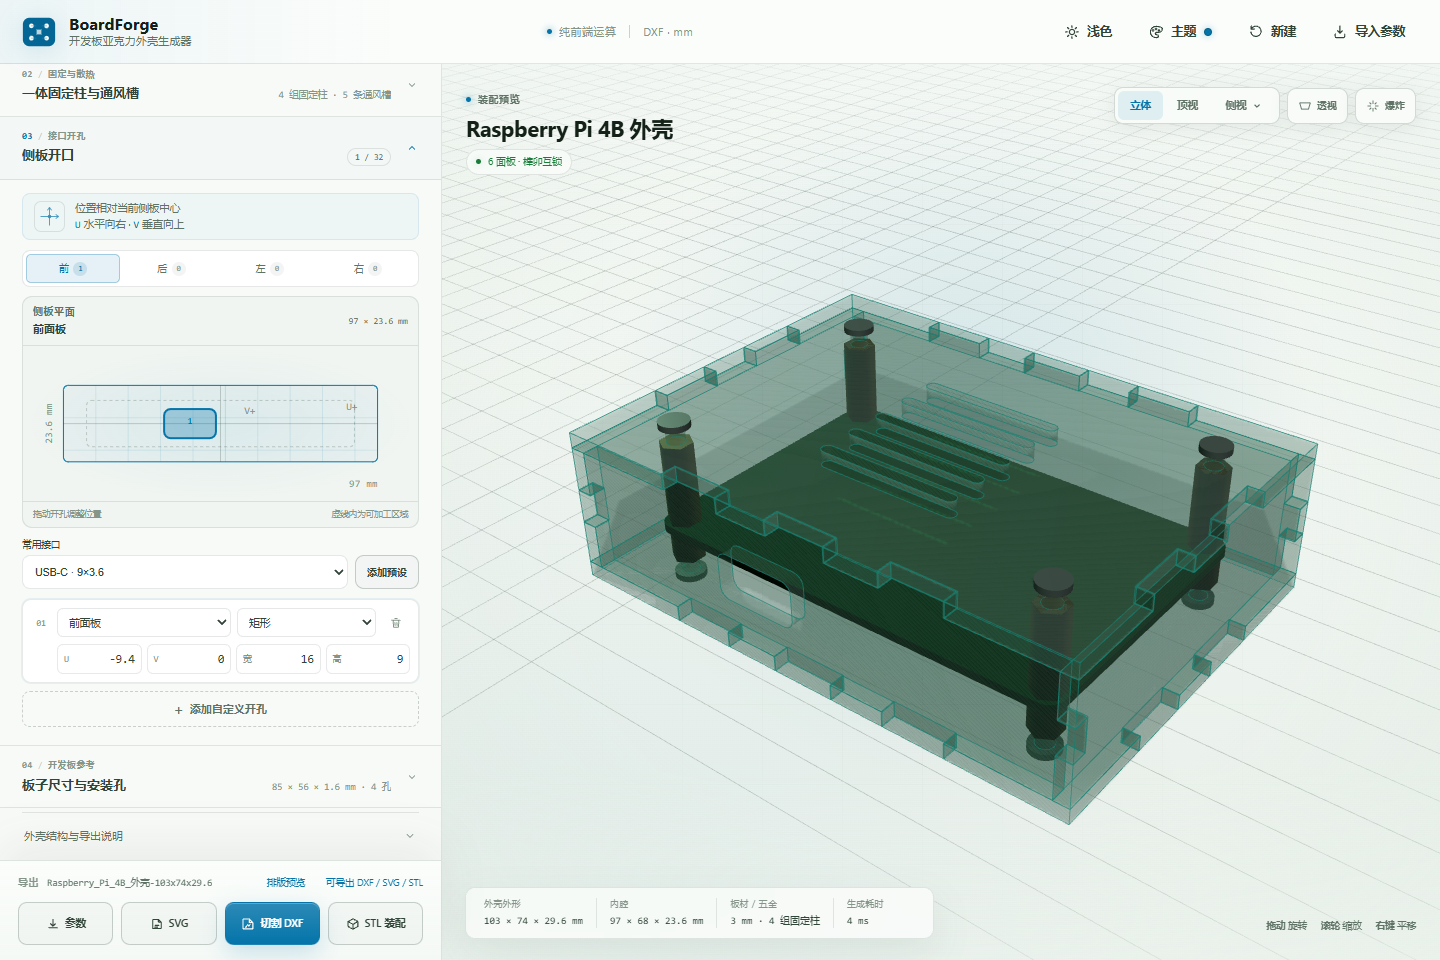
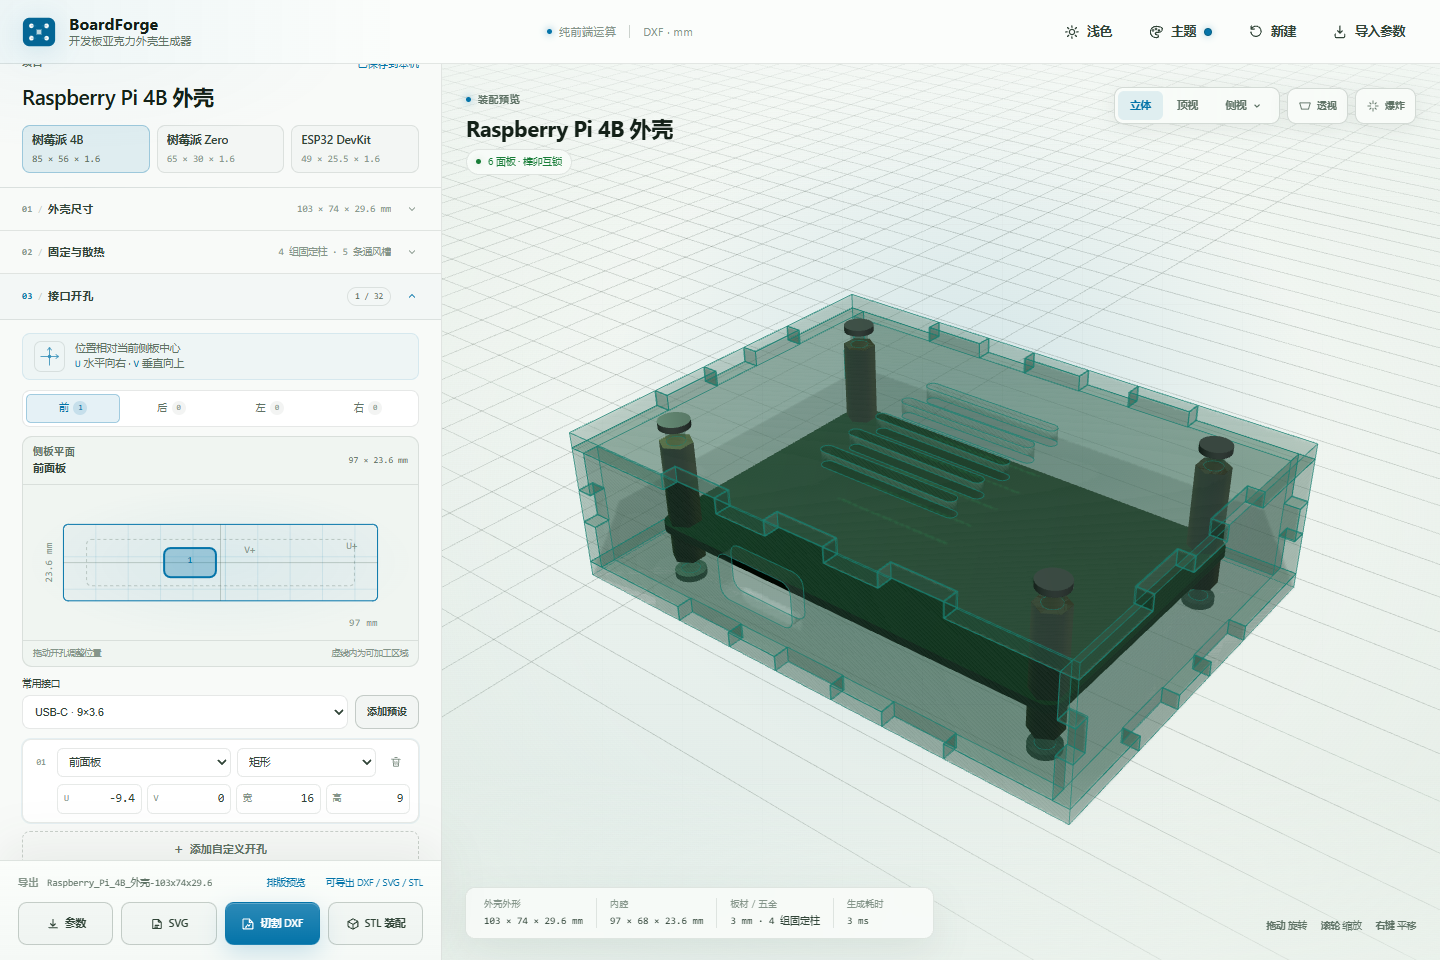
优化：移除折叠模块冗余标题

diff --git a/dist/index.html b/dist/index.html
@@ -645,48 +645,32 @@ html[data-mode="light"] .mode-icon-sun {
   background: rgba(255, 255, 255, 0.022);
 }
 
-.section-summary:hover .summary-title-row strong {
-  color: var(--text);
-}
-
-.summary-copy {
+.summary-main {
   display: flex;
   flex: 1;
-  flex-direction: column;
-  gap: 4px;
+  align-items: center;
+  justify-content: space-between;
+  gap: 14px;
   min-width: 0;
 }
 
 .section-summary .eyebrow {
+  flex: 0 0 auto;
   gap: 0;
-  color: var(--dim);
-  font-size: 8.5px;
-  font-weight: 600;
-  letter-spacing: 0.1em;
-}
-
-.summary-title-row {
-  display: grid;
-  grid-template-columns: minmax(0, max-content) minmax(0, 1fr);
-  align-items: baseline;
-  gap: 12px;
-  min-width: 0;
-}
-
-.summary-title-row strong {
-  min-width: 0;
-  overflow: hidden;
   color: var(--text-soft);
-  font-size: 13px;
+  font-size: 11px;
   font-weight: 600;
-  letter-spacing: 0;
-  text-overflow: ellipsis;
-  white-space: nowrap;
+  letter-spacing: 0.035em;
   transition: color 0.16s ease;
+}
+
+.section-summary:hover .eyebrow {
+  color: var(--text);
 }
 
 .summary-meta {
   min-width: 0;
+  margin-left: auto;
   overflow: hidden;
   color: var(--dim);
   font-family: var(--mono);
@@ -696,10 +680,9 @@ html[data-mode="light"] .mode-icon-sun {
   white-space: nowrap;
 }
 
-.summary-title-row .count-pill {
-  justify-self: end;
+.summary-main .count-pill {
   min-width: 0;
-  margin: 0;
+  margin: 0 0 0 auto;
   padding: 2px 7px;
   border-color: var(--line);
   background: transparent;
@@ -3433,12 +3416,12 @@ html[data-mode="light"] .toast-icon {
     padding: 14px 15px 17px;
   }
 
-  .summary-title-row {
-    gap: 8px;
+  .summary-main {
+    gap: 10px;
   }
 
-  .summary-title-row strong {
-    font-size: 13px;
+  .section-summary .eyebrow {
+    font-size: 10.5px;
   }
 
   .summary-meta {
@@ -3595,12 +3578,9 @@ html[data-mode="light"] .toast-icon {
 
             <details class="panel-section accordion-section" data-accordion="enclosure" open>
               <summary class="section-summary">
-                <span class="summary-copy">
+                <span class="summary-main">
                   <span class="eyebrow"><span class="step">01</span> 外壳尺寸</span>
-                  <span class="summary-title-row">
-                    <strong>盒体与板材</strong>
-                    <span class="summary-meta" id="enclosureSummary">95 × 66 × 29.6 mm</span>
-                  </span>
+                  <span class="summary-meta" id="enclosureSummary">95 × 66 × 29.6 mm</span>
                 </span>
                 <svg class="summary-chevron" viewBox="0 0 20 20" aria-hidden="true"><path d="m6 8 4 4 4-4" /></svg>
               </summary>
@@ -3652,12 +3632,9 @@ html[data-mode="light"] .toast-icon {
 
             <details class="panel-section accordion-section" data-accordion="mechanical">
               <summary class="section-summary">
-                <span class="summary-copy">
+                <span class="summary-main">
                   <span class="eyebrow"><span class="step">02</span> 固定与散热</span>
-                  <span class="summary-title-row">
-                    <strong>一体固定柱与通风槽</strong>
-                    <span class="summary-meta" id="mechanicalSummary">4 组固定柱 · 5 条通风槽</span>
-                  </span>
+                  <span class="summary-meta" id="mechanicalSummary">4 组固定柱 · 5 条通风槽</span>
                 </span>
                 <svg class="summary-chevron" viewBox="0 0 20 20" aria-hidden="true"><path d="m6 8 4 4 4-4" /></svg>
               </summary>
@@ -3732,12 +3709,9 @@ html[data-mode="light"] .toast-icon {
 
             <details class="panel-section accordion-section openings-section" data-accordion="openings">
               <summary class="section-summary">
-                <span class="summary-copy">
+                <span class="summary-main">
                   <span class="eyebrow"><span class="step">03</span> 接口开孔</span>
-                  <span class="summary-title-row">
-                    <strong>侧板开口</strong>
-                    <span class="count-pill" id="openingCount">0 / 32</span>
-                  </span>
+                  <span class="count-pill" id="openingCount">0 / 32</span>
                 </span>
                 <svg class="summary-chevron" viewBox="0 0 20 20" aria-hidden="true"><path d="m6 8 4 4 4-4" /></svg>
               </summary>
@@ -3788,12 +3762,9 @@ html[data-mode="light"] .toast-icon {
 
             <details class="panel-section accordion-section board-details" id="boardDetails" data-accordion="board">
               <summary class="section-summary">
-                <span class="summary-copy">
+                <span class="summary-main">
                   <span class="eyebrow"><span class="step">04</span> 开发板参考</span>
-                  <span class="summary-title-row">
-                    <strong>板子尺寸与安装孔</strong>
-                    <span class="summary-meta" id="boardSummary">85 × 56 × 1.6 mm · 4 孔</span>
-                  </span>
+                  <span class="summary-meta" id="boardSummary">85 × 56 × 1.6 mm · 4 孔</span>
                 </span>
                 <svg class="summary-chevron" viewBox="0 0 20 20" aria-hidden="true"><path d="m6 8 4 4 4-4" /></svg>
               </summary>

diff --git a/index.html b/index.html
@@ -125,12 +125,9 @@
 
             <details class="panel-section accordion-section" data-accordion="enclosure" open>
               <summary class="section-summary">
-                <span class="summary-copy">
+                <span class="summary-main">
                   <span class="eyebrow"><span class="step">01</span> 外壳尺寸</span>
-                  <span class="summary-title-row">
-                    <strong>盒体与板材</strong>
-                    <span class="summary-meta" id="enclosureSummary">95 × 66 × 29.6 mm</span>
-                  </span>
+                  <span class="summary-meta" id="enclosureSummary">95 × 66 × 29.6 mm</span>
                 </span>
                 <svg class="summary-chevron" viewBox="0 0 20 20" aria-hidden="true"><path d="m6 8 4 4 4-4" /></svg>
               </summary>
@@ -182,12 +179,9 @@
 
             <details class="panel-section accordion-section" data-accordion="mechanical">
               <summary class="section-summary">
-                <span class="summary-copy">
+                <span class="summary-main">
                   <span class="eyebrow"><span class="step">02</span> 固定与散热</span>
-                  <span class="summary-title-row">
-                    <strong>一体固定柱与通风槽</strong>
-                    <span class="summary-meta" id="mechanicalSummary">4 组固定柱 · 5 条通风槽</span>
-                  </span>
+                  <span class="summary-meta" id="mechanicalSummary">4 组固定柱 · 5 条通风槽</span>
                 </span>
                 <svg class="summary-chevron" viewBox="0 0 20 20" aria-hidden="true"><path d="m6 8 4 4 4-4" /></svg>
               </summary>
@@ -262,12 +256,9 @@
 
             <details class="panel-section accordion-section openings-section" data-accordion="openings">
               <summary class="section-summary">
-                <span class="summary-copy">
+                <span class="summary-main">
                   <span class="eyebrow"><span class="step">03</span> 接口开孔</span>
-                  <span class="summary-title-row">
-                    <strong>侧板开口</strong>
-                    <span class="count-pill" id="openingCount">0 / 32</span>
-                  </span>
+                  <span class="count-pill" id="openingCount">0 / 32</span>
                 </span>
                 <svg class="summary-chevron" viewBox="0 0 20 20" aria-hidden="true"><path d="m6 8 4 4 4-4" /></svg>
               </summary>
@@ -318,12 +309,9 @@
 
             <details class="panel-section accordion-section board-details" id="boardDetails" data-accordion="board">
               <summary class="section-summary">
-                <span class="summary-copy">
+                <span class="summary-main">
                   <span class="eyebrow"><span class="step">04</span> 开发板参考</span>
-                  <span class="summary-title-row">
-                    <strong>板子尺寸与安装孔</strong>
-                    <span class="summary-meta" id="boardSummary">85 × 56 × 1.6 mm · 4 孔</span>
-                  </span>
+                  <span class="summary-meta" id="boardSummary">85 × 56 × 1.6 mm · 4 孔</span>
                 </span>
                 <svg class="summary-chevron" viewBox="0 0 20 20" aria-hidden="true"><path d="m6 8 4 4 4-4" /></svg>
               </summary>

diff --git a/styles.css b/styles.css
@@ -622,48 +622,32 @@ html[data-mode="light"] .mode-icon-sun {
   background: rgba(255, 255, 255, 0.022);
 }
 
-.section-summary:hover .summary-title-row strong {
-  color: var(--text);
-}
-
-.summary-copy {
+.summary-main {
   display: flex;
   flex: 1;
-  flex-direction: column;
-  gap: 4px;
+  align-items: center;
+  justify-content: space-between;
+  gap: 14px;
   min-width: 0;
 }
 
 .section-summary .eyebrow {
+  flex: 0 0 auto;
   gap: 0;
-  color: var(--dim);
-  font-size: 8.5px;
-  font-weight: 600;
-  letter-spacing: 0.1em;
-}
-
-.summary-title-row {
-  display: grid;
-  grid-template-columns: minmax(0, max-content) minmax(0, 1fr);
-  align-items: baseline;
-  gap: 12px;
-  min-width: 0;
-}
-
-.summary-title-row strong {
-  min-width: 0;
-  overflow: hidden;
   color: var(--text-soft);
-  font-size: 13px;
+  font-size: 11px;
   font-weight: 600;
-  letter-spacing: 0;
-  text-overflow: ellipsis;
-  white-space: nowrap;
+  letter-spacing: 0.035em;
   transition: color 0.16s ease;
+}
+
+.section-summary:hover .eyebrow {
+  color: var(--text);
 }
 
 .summary-meta {
   min-width: 0;
+  margin-left: auto;
   overflow: hidden;
   color: var(--dim);
   font-family: var(--mono);
@@ -673,10 +657,9 @@ html[data-mode="light"] .mode-icon-sun {
   white-space: nowrap;
 }
 
-.summary-title-row .count-pill {
-  justify-self: end;
+.summary-main .count-pill {
   min-width: 0;
-  margin: 0;
+  margin: 0 0 0 auto;
   padding: 2px 7px;
   border-color: var(--line);
   background: transparent;
@@ -3410,12 +3393,12 @@ html[data-mode="light"] .toast-icon {
     padding: 14px 15px 17px;
   }
 
-  .summary-title-row {
-    gap: 8px;
+  .summary-main {
+    gap: 10px;
   }
 
-  .summary-title-row strong {
-    font-size: 13px;
+  .section-summary .eyebrow {
+    font-size: 10.5px;
   }
 
   .summary-meta {
